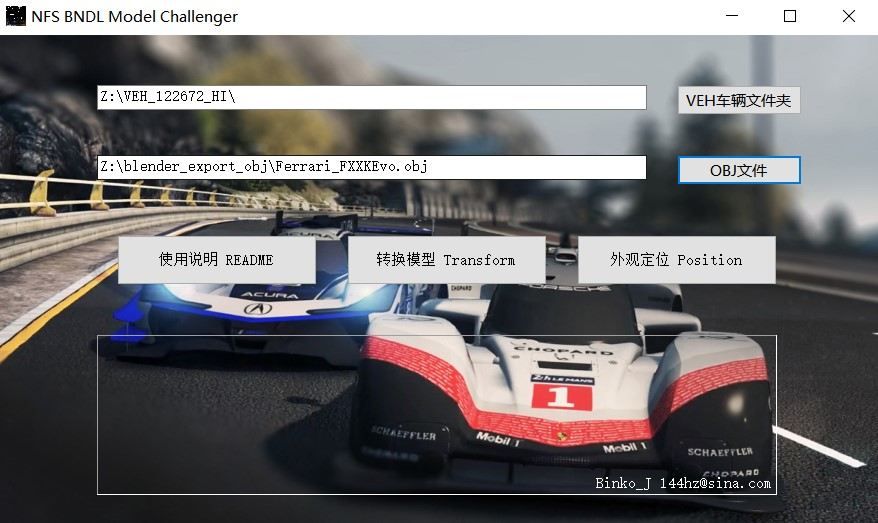
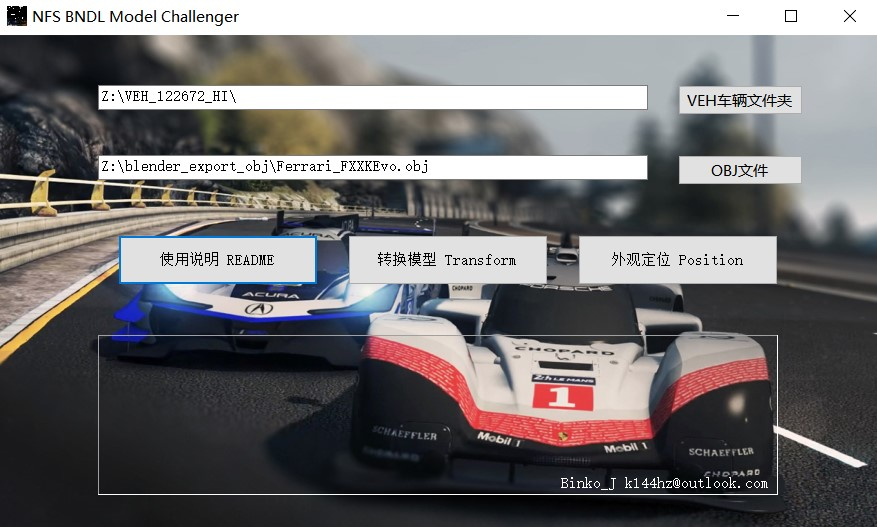
update carbon material, mesh head and parameter editor

diff --git a/NFSbndlModelChallenger/NFSbndlModelChallenger/ParameterEditor.cs b/NFSbndlModelChallenger/NFSbndlModelChallenger/ParameterEditor.cs
@@ -5,17 +5,17 @@ using System.IO;
 namespace NFSbndlModelChallenger {
     class ParameterEditor {
 
-        private readonly string veh_path;
+        public readonly string script_path;
 
         public ParameterEditor(string path) {
             if (!path.EndsWith("\\")) path += "\\";
-            veh_path = path;
+            script_path = BNDLHelper.Get_script_path(path);
         }
 
         private List<string> wheel_path;
         public float[] Wheel_position {
             get {
-                if (wheel_path == null) wheel_path = BNDLHelper.Get_para_path("wheel", veh_path);
+                if (wheel_path == null) wheel_path = BNDLHelper.Get_para_path("wheel", script_path);
                 float[] wheel_raw = BNDLHelper.Get_para_float_value("wheel", wheel_path);
 
                 float[] wheel_xyz = { wheel_raw[4], wheel_raw[1], wheel_raw[0],
@@ -23,7 +23,7 @@ namespace NFSbndlModelChallenger {
                 return wheel_xyz;
             }
             set {
-                if (wheel_path.Count == 0) wheel_path = BNDLHelper.Get_para_path("wheel", veh_path);
+                if (wheel_path.Count == 0) wheel_path = BNDLHelper.Get_para_path("wheel", script_path);
                 float[] wheel_base = { value[2], value[1], value[5], value[4],
                     value[0], -value[0], value[3], -value[3] };
 
@@ -34,7 +34,7 @@ namespace NFSbndlModelChallenger {
         private List<string> driver_path;
         public float[] Driver_position {
             get {
-                if (driver_path == null) driver_path = BNDLHelper.Get_para_path("driver", veh_path);
+                if (driver_path == null) driver_path = BNDLHelper.Get_para_path("driver", script_path);
                 float[] driver_raw = BNDLHelper.Get_para_float_value("driver", driver_path);
 
                 float[] driver_xyz = {driver_raw[0], driver_raw[2], driver_raw[1], 
@@ -42,7 +42,7 @@ namespace NFSbndlModelChallenger {
                 return driver_xyz;
             }
             set {
-                if (driver_path == null) driver_path = BNDLHelper.Get_para_path("driver", veh_path);
+                if (driver_path == null) driver_path = BNDLHelper.Get_para_path("driver", script_path);
                 float[] driver_base = {value[0], value[2], value[1],
                     value[3], value[5], value[4]};
                 
@@ -53,14 +53,14 @@ namespace NFSbndlModelChallenger {
         private List<string> hixbox_path;
         public float[] Hitbox_size {
             get {
-                if (hixbox_path == null) hixbox_path = BNDLHelper.Get_para_path("hitbox", veh_path);
+                if (hixbox_path == null) hixbox_path = BNDLHelper.Get_para_path("hitbox", script_path);
                 float[] hitbox_raw = BNDLHelper.Get_para_float_value("hitbox", hixbox_path);
 
                 float[] hitbox_xyz = { hitbox_raw[3], hitbox_raw[5], hitbox_raw[4] };
                 return hitbox_xyz;
             }
             set {
-                if (hixbox_path == null) hixbox_path = BNDLHelper.Get_para_path("hitbox", veh_path);
+                if (hixbox_path == null) hixbox_path = BNDLHelper.Get_para_path("hitbox", script_path);
                 float[] hitbox_base = {value[0], value[2], value[1],
                     value[0], value[2], value[1]};
 

diff --git a/NFSbndlModelChallenger/NFSbndlModelChallenger/MeshHelper.cs b/NFSbndlModelChallenger/NFSbndlModelChallenger/MeshHelper.cs
@@ -93,7 +93,7 @@ namespace NFSbndlModelChallenger {
                 byte[] pixel = new byte[0x28];
                 Get_vertex_byte8(ver_list[i]).CopyTo(pixel, 0x0);
                 Get_damage_unk_byte8().CopyTo(pixel, 0x8);
-                Get_bright_byte4(0x40).CopyTo(pixel, 0x10);
+                Get_bright_byte4(0x60).CopyTo(pixel, 0x10);
                 Get_uv_byte4(vt_list[i]).CopyTo(pixel, 0x14);
                 Get_uv_unk_byte4().CopyTo(pixel, 0x18);
                 Get_3C_unk_byte4().CopyTo(pixel, 0x1C);
@@ -140,22 +140,46 @@ namespace NFSbndlModelChallenger {
             return re_meshp;
         }
 
-        public static void Get_mesh_header(uint mesh_id, out byte[] mesh_a, out byte[] mesh_b) {
+        public static void Get_mesh_header(uint mesh_id, out byte[] mesh_a, out byte[] mesh_b, int block_num) {
             mesh_a = Resource1.mesh_a;
-            mesh_b = Resource1.mesh_b;
-            byte[] mesh_id_b = BitConverter.GetBytes(mesh_id);
-            mesh_id_b.CopyTo(mesh_a, 0);
+            BitConverter.GetBytes(mesh_id).CopyTo(mesh_a, 0);
+            mesh_a[0x40] = (byte)block_num;
+
+            byte[] mesh_b_header = new byte[0x20 + 0x10 * ((block_num - 1) / 4 + 1)];
+            byte[] mesh_b_data = new byte[0x60 * block_num];
+            byte[] mesh_b_link = new byte[0x10 * block_num];
+            mesh_b = new byte[mesh_b_header.Length + mesh_b_data.Length + mesh_b_link.Length];
+
+            Array.Copy(Resource1.mesh_b, mesh_b_header, 0x20);
+            for (int i=0; i< block_num; i++) {
+                Array.Copy(Resource1.mesh_b, 0x30, mesh_b_data, i * 0x60, 0x60);
+                Array.Copy(Resource1.mesh_b, 0x90, mesh_b_link, i * 0x10, 0x10);
+                BitConverter.GetBytes(mesh_b_header.Length + i * 0x60).CopyTo(mesh_b_header, 0x20 + i * 4);
+                BitConverter.GetBytes(mesh_b_header.Length + i * 0x60 + 0x30).CopyTo(mesh_b_data, i * 0x60 + 0x28);
+                BitConverter.GetBytes(mesh_b_header.Length + i * 0x60 + 0x48).CopyTo(mesh_b_data, i * 0x60 + 0x2C);
+                BitConverter.GetBytes(mesh_b_header.Length + i * 0x60 + 0x20).CopyTo(mesh_b_link, i * 0x10 + 8);
+            }
+
+            BitConverter.GetBytes(mesh_b_header.Length + mesh_b_data.Length).CopyTo(mesh_a, 0x38);
+            mesh_b[0x12] = (byte)block_num;
+
+            mesh_b_header.CopyTo(mesh_b, 0);
+            mesh_b_data.CopyTo(mesh_b, mesh_b_header.Length);
+            mesh_b_link.CopyTo(mesh_b, mesh_b_header.Length + mesh_b_data.Length);
         }
 
         private static byte[] Get_vertex_byte8(double[] vertex_d) {
-            if (vertex_d.Length != 3) Console.WriteLine("Error Vertex size");
             double VET_CORD_RATE = 10;
 
             short[] vertex = new short[4];
             vertex[3] = 0x7FFF;
             for (int i = 0; i < 3; i++) {
-                // 1 height
+                // [1] height
                 double ver_t = vertex_d[i] / VET_CORD_RATE;
+                if (ver_t > 1 || ver_t < -1) {
+                    ver_t = 0;
+                    NBMC.OutputLog("Object too large, try scaling down! 顶点座标过大，需要缩小模型");
+                }
                 vertex[i] = Convert.ToInt16(ver_t * 0x7FFF);
             }
 

diff --git a/NFSbndlModelChallenger/NFSbndlModelChallenger/ObjTransformer.cs b/NFSbndlModelChallenger/NFSbndlModelChallenger/ObjTransformer.cs
@@ -38,7 +38,7 @@ namespace NFSbndlModelChallenger {
         public void ObjTransform(uint car_id, string input_vehicle_path, string input_obj_file) {
 
             base_mtl_id = 0x80000000 + car_id * 0x100;
-            base_tex_id = 0x80000000 + car_id * 0x100 + 0x20;
+            base_tex_id = 0x80000000 + car_id * 0x100 + 0x40;
             input_obj_path = Path.GetDirectoryName(input_obj_file) + '\\';
 
             if (!input_vehicle_path.EndsWith("\\")) input_vehicle_path += '\\';
@@ -46,7 +46,10 @@ namespace NFSbndlModelChallenger {
             mesh_id = BNDLHelper.Get_mesh_id(input_vehicle_path, car_id, true);
 
             meshBlocks = LoadObj(input_obj_file);
-            if (meshBlocks.Count > 0x14) NBMC.OutputLog("OBJ too many object blocks OBJ物体数量太多，当前限制<20");
+            if (meshBlocks.Count > 0x40) {
+                NBMC.OutputLog("OBJ too many object blocks! OBJ物体数量太多，最大数量<64");
+                meshBlocks.RemoveRange(0x40, meshBlocks.Count - 0x40);
+            }
             CreateMesh();
             CreateMaterial();
             CreateRef();
@@ -119,7 +122,7 @@ namespace NFSbndlModelChallenger {
         }
 
         private void CreateMesh() {
-            MeshHelper.Get_mesh_header(mesh_id, out byte[] mesh_a, out byte[] mesh_b);
+            MeshHelper.Get_mesh_header(mesh_id, out byte[] mesh_a, out byte[] mesh_b, meshBlocks.Count);
             WriteMeshDat(mesh_id, mesh_a, mesh_b);
         }
 

diff --git a/NFSbndlModelChallenger/NFSbndlModelChallenger/BNDLHelper.cs b/NFSbndlModelChallenger/NFSbndlModelChallenger/BNDLHelper.cs
@@ -82,11 +82,19 @@ namespace NFSbndlModelChallenger {
             return mesh_id;
         }
 
-        public static List<string> Get_para_path(string type, string veh_path) {
-            string root_path = veh_path + @"raw\4_block\";
+        public static string Get_script_path(string veh_path) {
+            string root_path, script_path;
+            for (int i = 2; i <= 6; i++) {
+                root_path = veh_path + "raw\\"+ i +"_block\\";
+                datType2id.TryGetValue(21, out string base_syn);
+                script_path = root_path + "21_" + base_syn + '\\';
+                if (File.Exists(script_path + "1_a.dat"))
+                    return script_path;
+            }
+            return "";
+        }
 
-            datType2id.TryGetValue(21, out string base_syn);
-            string script_path = root_path + "21_" + base_syn + '\\';
+        public static List<string> Get_para_path(string type, string script_path) {
 
             List<string> para_path = new();
             para2syn.TryGetValue(type, out var syn_inf);

diff --git a/NFSbndlModelChallenger/NFSbndlModelChallenger/NBMC.Designer.cs b/NFSbndlModelChallenger/NFSbndlModelChallenger/NBMC.Designer.cs
@@ -103,11 +103,11 @@ namespace NFSbndlModelChallenger {
             this.label3.AutoSize = true;
             this.label3.BackColor = System.Drawing.Color.Transparent;
             this.label3.ForeColor = System.Drawing.Color.White;
-            this.label3.Location = new System.Drawing.Point(596, 440);
+            this.label3.Location = new System.Drawing.Point(560, 440);
             this.label3.Name = "label3";
-            this.label3.Size = new System.Drawing.Size(183, 15);
+            this.label3.Size = new System.Drawing.Size(215, 15);
             this.label3.TabIndex = 11;
-            this.label3.Text = "Binko_J 144hz@sina.com";
+            this.label3.Text = "Binko_J k144hz@outlook.com";
             // 
             // select_veh
             // 

diff --git a/NFSbndlModelChallenger/NFSbndlModelChallenger/MtltexHelper.cs b/NFSbndlModelChallenger/NFSbndlModelChallenger/MtltexHelper.cs
@@ -21,7 +21,7 @@ namespace NFSbndlModelChallenger {
         private static readonly Dictionary<ObjTransformer.MeshType, List<uint>> methType2pos = new() {
             { ObjTransformer.MeshType.metal, new List<uint> { 0x60 } },
             { ObjTransformer.MeshType.glass, new List<uint> {  } },
-            { ObjTransformer.MeshType.carbon, new List<uint> { 0xb0 } },
+            { ObjTransformer.MeshType.carbon, new List<uint> { 0xb0, 0xd0 } },
             { ObjTransformer.MeshType.light, new List<uint> { 0x110, 0x120, 0x130 } },
             { ObjTransformer.MeshType.tmask, new List<uint> { 0x180 } },
             { ObjTransformer.MeshType.interior, new List<uint> { 0xd0, 0xe0, 0xf0 } }

diff --git a/NFSbndlModelChallenger/NFSbndlModelChallenger/NBMC.cs b/NFSbndlModelChallenger/NFSbndlModelChallenger/NBMC.cs
@@ -10,11 +10,13 @@ namespace NFSbndlModelChallenger {
             CultureInfo.DefaultThreadCurrentCulture = CultureInfo.InvariantCulture;
             CultureInfo.DefaultThreadCurrentUICulture = CultureInfo.InvariantCulture;
             Icon = Properties.Resources._1icon;
+            texBox_output.BackColor = System.Drawing.Color.FromArgb(10, 0, 0, 0);
         }
 
         private static string outputLog = "";
         public static void OutputLog(string log) {
-            outputLog += log + "\r\n";
+            if(!outputLog.Contains(log))
+                outputLog += log + "\r\n";
         }
 
         private void button_transform_Click(object sender, EventArgs e) {

diff --git a/NFSbndlModelChallenger/NFSbndlModelChallenger/NBPA.cs b/NFSbndlModelChallenger/NFSbndlModelChallenger/NBPA.cs
@@ -23,6 +23,9 @@ namespace NFSbndlModelChallenger {
                 textBox_veh.Text = path;
                 pe = new ParameterEditor(path);
             }
+            if(pe == null || pe.script_path == "") {
+                MessageBox.Show("Parameter file not found! 未找到参数文件");
+            }
         }
 
         private void button_load_Click(object sender, EventArgs e) {

diff --git a/NFSbndlModelChallenger/NFSbndlModelChallenger/Properties/AssemblyInfo.cs b/NFSbndlModelChallenger/NFSbndlModelChallenger/Properties/AssemblyInfo.cs
@@ -32,5 +32,5 @@ using System.Runtime.InteropServices;
 //可以指定所有这些值，也可以使用“生成号”和“修订号”的默认值
 //通过使用 "*"，如下所示:
 // [assembly: AssemblyVersion("1.0.*")]
-[assembly: AssemblyVersion("1.0.0.0")]
-[assembly: AssemblyFileVersion("1.0.0.0")]
+[assembly: AssemblyVersion("1.0.1.0")]
+[assembly: AssemblyFileVersion("1.0.1.0")]
